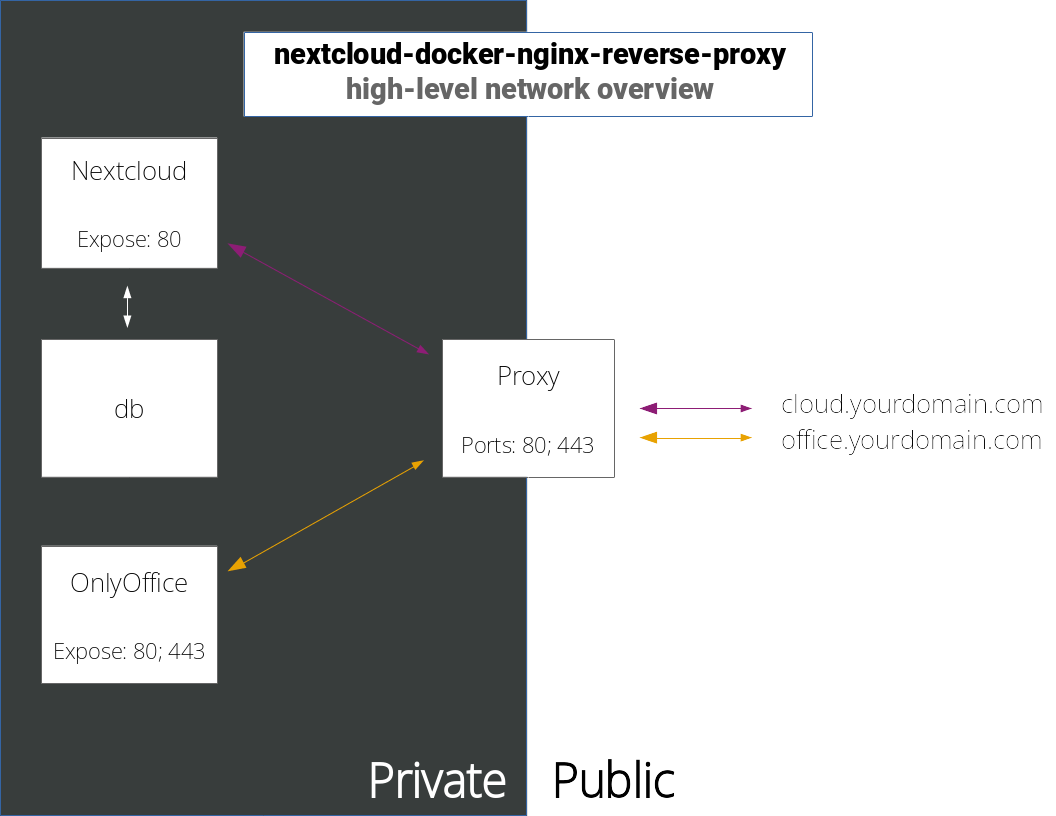
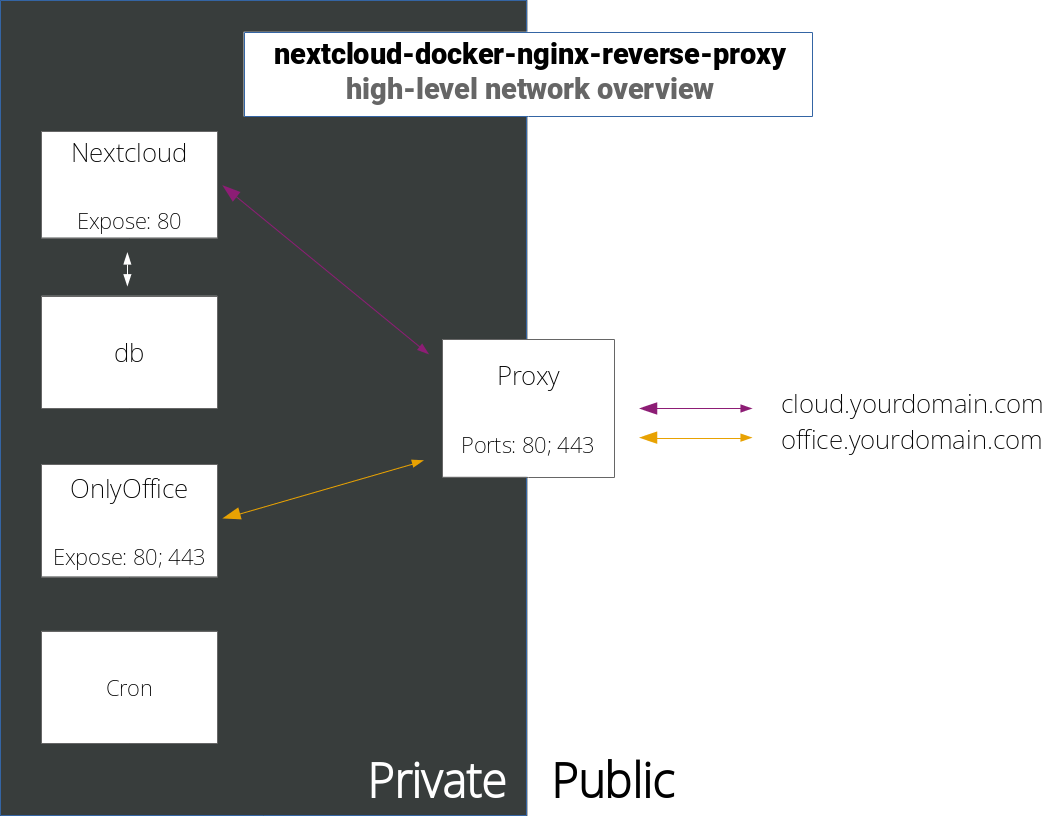
Update initial set up documentation, high-level overview diagram

diff --git a/README.md b/README.md
@@ -1,5 +1,11 @@
 # nextcloud-docker-nginx-reverse-proxy
-This is the basis of the configuration of my production Nextcloud server.
+A Docker based Nextcloud stack.  
+
+## Features
+- HTTPS enforced / only
+- Only ports exposed are from the nginx / LetsEncrypt webserver (443 and 80)
+- Seperated office and cloud subdomains for security
+- OnlyOffice integration (can be swapped out for CollaboraOnline)
 
 ## Overview
 <a href="./high-level-overview.svg">
@@ -9,15 +15,9 @@ This is the basis of the configuration of my production Nextcloud server.
 ## Containers
 - Nextcloud
 - MariaDB / db
-- OnlyOffice
+- OnlyOffice (or [CollaboraOnline](#using-collaboraonline-instead-of-onlyoffice-optional))
 - LetsEncrypt / nginx / Proxy
 - Cron
-
-## Features
-- HTTPS enforced / only
-- Only ports exposed are from the nginx / LetsEncrypt webserver (443 and 80)
-- Seperated office and cloud subdomains for security
-- OnlyOffice integration (can be swapped out for CollaboraOnline)
 
 ## DNS setup
 | Subdomain | Service |
@@ -25,7 +25,7 @@ This is the basis of the configuration of my production Nextcloud server.
 | cloud | Nextcloud |
 | office | OnlyOffice |
 
-Note: both domains must direct to your server
+Note: both subdomains must direct to your server  
 
 ## Server dependencies
 - `docker-compose`
@@ -43,7 +43,7 @@ Set your MySQL passwords
       - MYSQL_USER=root
 ```
 
-##### letsencrypt
+##### LetsEncrypt / proxy
 Set your `email` address, domain `URL`, and if necessary tweak the `SUBDOMAINS`.
 ```yaml
     environment:
@@ -62,9 +62,9 @@ In `nginx.cfg`, adjust the value after each `server_name` to fit your set up.
 | # | Command |  
 | - | - |  
 | 1. | `docker-compose up -d` | Run the containers |  
-| 2. | `docker-compose logs letsencrypt` | Watch the logs until the certificates have been generated, after they have been continue onto #3 |  
-| 3. | `docker cp ./nginx.cfg nextclouddockernginxreverseproxy_proxy_1:/config/nginx/site-confs/default` | Install nginx config |  
-| 4. | `docker-compose restart letsencrypt` | Restart nginx |  
+| 2. | `docker-compose logs proxy` | Watch the logs until the certificates have been generated, after they have been continue onto #3 |  
+
+If you're unable to connect to some services, after the initial deployment try restarting the proxy via: `docker-compose restart proxy`.  
 
 ## Initalising your setup
 ##### Nextcloud
@@ -76,11 +76,14 @@ Backup: `docker-compose exec app cat /var/www/html/config/config.php > config.ph
 Restore: `docker cp ./config.php nextclouddockernginxreverseproxy_nextcloud_1:/var/www/html/config/config.php`  
 
 ## Configuring Nextcloud to trust the proxy
-Back up your config, edit `config.php` and in the array add the lines:
+Back up your Nextcloud config, edit `config.php` and in the array add the lines:
 ```yaml
   'overwritehost' => 'cloud.yourdomain.com',
   'overwriteprotocol' => 'https',
-  'trusted_proxies' => ['proxy'],
+  'trusted_proxies' => 
+  array(
+    0 => 'proxy'
+  ),
 ```
 Make sure you change the value of `overwritehost` to the FQDN of your domain.
 
